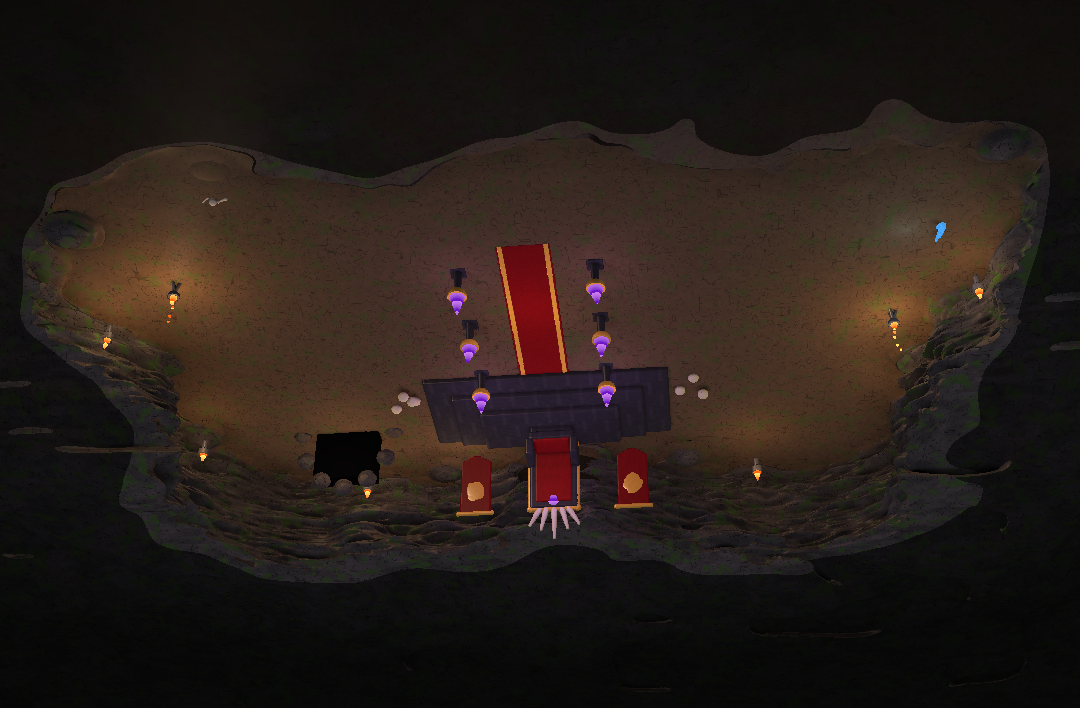
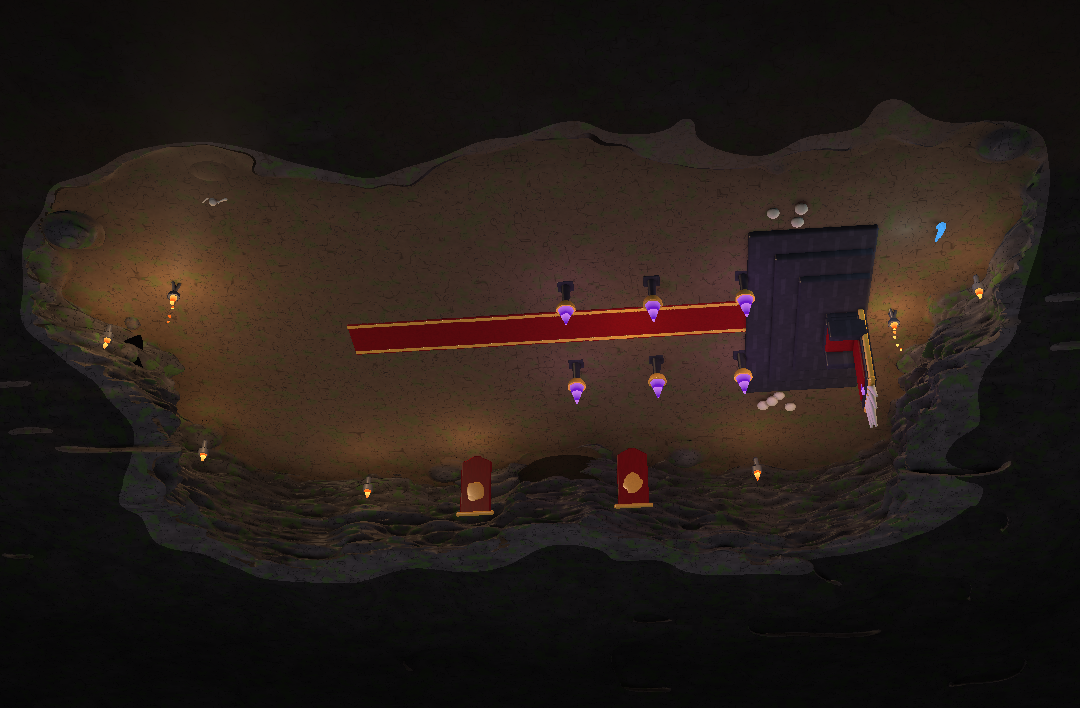
主の間：昼は背中、戦いは横向き。昼のキャラを大きく
Claude-Session: https://claude.ai/code/session_01MpJPWy321815AwYbXUCf2V

diff --git a/index.html b/index.html
@@ -7212,7 +7212,7 @@ document.addEventListener("click", ev => {
 { const _oc2 = openChest19; openChest19 = function (S, c) { if (c.kind !== "lvall") return _oc2(S, c); if (!S.mons.length) return _oc2(S, c);
   return { text: "👑 覚醒", sub: "Lv+3 する子を1体えらんでね", sp: null, feed: 1, awaken: true, evos: [] }; }; }
 
-const VER20 = "No.208（11/18 20:43）";
+const VER20 = "No.209（11/18 21:11）";
 // ================= proto20：ダンジョンを見る画面と、配置する画面を分ける =================
 // ・ダンジョン画面：洞窟を大きく。部屋をタップ → 部屋ボード（全画面）
 // ・🧭育成：育てる→稼ぐ／守るの流れで見る。卒業Lv・毎朝おまかせ
@@ -10603,7 +10603,7 @@ SPCOLX24.lord = [[0.74, 0.7, 0.84], [0.78, 0.12, 0.16]]; SPCOL24.lordk = SPCOLX2
 // 施設：今の3部屋の家具を1つずつ切り出し、広い洞窟の中で重ならない位置へずらして置く
 
 // 入口と出口の門（戦闘で勇者が出入りする）。奥の壁と右の壁
-const GATE25 = (x0, z0, side) => { const x = (+x0).toFixed(2), z = (+z0).toFixed(2), q = side ? `vec3(p.z-(${z}),p.y,-(p.x-(${x})))` : `vec3(p.x-(${x}),p.y,p.z-(${z}))`;
+const GATE25 = (x0, z0, side) => { const x = (+x0).toFixed(2), z = (+z0).toFixed(2), q = side === 2 ? `vec3(-(p.z-(${z})),p.y,p.x-(${x}))` : side ? `vec3(p.z-(${z}),p.y,-(p.x-(${x})))` : `vec3(p.x-(${x}),p.y,p.z-(${z}))`;
   return ` {vec3 q=${q};float vd=sRBox(q-vec3(0.0,1.35,-0.45),vec3(1.55,1.35,0.4),0.05);if(vd<r.x)r=vec2(vd,26.0);
   float fr=min(sTap(q,vec3(-1.75,0.0,0.0),vec3(-1.75,2.85,0.0),0.17,0.15),sTap(q,vec3(1.75,0.0,0.0),vec3(1.75,2.85,0.0),0.17,0.15));
   fr=min(fr,sTap(q,vec3(-2.05,2.85,0.0),vec3(2.05,2.85,0.0),0.19,0.19));fr=min(fr,sTap(q,vec3(-1.75,2.3,0.05),vec3(-1.1,2.85,0.05),0.07,0.07));fr=min(fr,sTap(q,vec3(1.75,2.3,0.05),vec3(1.1,2.85,0.05),0.07,0.07));
@@ -10638,24 +10638,40 @@ const WATCH25 = () => ` {vec3 q=p-vec3(11.0,0.0,3.6);float tb=sRBox(q-vec3(0.0,0
  {vec3 q=p-vec3(13.0,0.0,2.4);float tp=1e3;for(int i=0;i<3;i++){float a=float(i)*2.094+0.3;tp=min(tp,sTap(q,vec3(cos(a)*0.5,0.0,sin(a)*0.5),vec3(0.0,1.3,0.0),0.035,0.03));}if(tp<r.x)r=vec2(tp,12.0);
   float sg=sTap(q,vec3(-0.12,1.32,0.42),vec3(0.16,1.52,-0.5),0.1,0.065);if(sg<r.x)r=vec2(sg,18.0);float rg=sTap(q,vec3(-0.1,1.33,0.36),vec3(-0.08,1.345,0.3),0.115,0.115);if(rg<r.x)r=vec2(rg,22.0);}`;
 // 主の間：石の壇・玉座・赤いじゅうたん・紫の火の台・旗・どくろ
-const THRONE25 = () => ` {vec3 q=(p-vec3(0.0,0.0,-6.3))/1.4;vec2 rr=vec2(1e3,0.0);
-  float ds=sRBox(q-vec3(0.0,0.12,0.0),vec3(4.2,0.12,1.9),0.04);ds=min(ds,sRBox(q-vec3(0.0,0.34,-0.35),vec3(3.3,0.12,1.45),0.04));ds=min(ds,sRBox(q-vec3(0.0,0.56,-0.7),vec3(2.4,0.12,1.05),0.04));if(ds<rr.x)rr=vec2(ds,30.0);
-  vec3 t=q-vec3(0.0,0.68,-1.1);float th=sRBox(t-vec3(0.0,0.35,0.0),vec3(0.75,0.12,0.6),0.04);th=min(th,sRBox(t-vec3(0.0,1.45,-0.5),vec3(0.8,1.25,0.12),0.05));
+// 主の間の中身（元の向き：壇は奥 z=-6.3、玉座は手前 +z を向く）
+const DAIS25 = `  float ds=sRBox(q-vec3(0.0,0.12,0.0),vec3(4.2,0.12,1.9),0.04);ds=min(ds,sRBox(q-vec3(0.0,0.34,-0.35),vec3(3.3,0.12,1.45),0.04));ds=min(ds,sRBox(q-vec3(0.0,0.56,-0.7),vec3(2.4,0.12,1.05),0.04));if(ds<rr.x)rr=vec2(ds,30.0);`;
+const CHAIR25 = `  vec3 t=q-vec3(0.0,0.68,-1.1);float th=sRBox(t-vec3(0.0,0.35,0.0),vec3(0.75,0.12,0.6),0.04);th=min(th,sRBox(t-vec3(0.0,1.45,-0.5),vec3(0.8,1.25,0.12),0.05));
   th=min(th,sRBox(vec3(abs(t.x),t.y,t.z)-vec3(0.78,0.75,0.0),vec3(0.1,0.3,0.55),0.04));th=min(th,sRBox(t-vec3(0.0,0.12,0.0),vec3(0.7,0.12,0.55),0.03));if(th<rr.x)rr=vec2(th,30.0);
   float cu=sRBox(t-vec3(0.0,0.5,0.05),vec3(0.62,0.06,0.5),0.05);cu=min(cu,sRBox(t-vec3(0.0,1.45,-0.36),vec3(0.62,1.05,0.04),0.04));if(cu<rr.x)rr=vec2(cu,27.0);
   float gd=sTap(vec3(abs(t.x),t.y,t.z),vec3(0.82,0.08,-0.5),vec3(0.82,2.75,-0.5),0.06,0.06);gd=min(gd,sTap(t,vec3(-0.85,2.72,-0.5),vec3(0.85,2.72,-0.5),0.07,0.07));if(gd<rr.x)rr=vec2(gd,28.0);
   float sk=1e3;for(int i=0;i<5;i++){float a=(float(i)-2.0)*0.38;sk=min(sk,sTap(t,vec3(sin(a)*0.75,2.75,-0.5),vec3(sin(a)*1.25,2.75+cos(a)*(i==2?1.1:0.8),-0.55),0.08,0.01));}if(sk<rr.x)rr=vec2(sk,15.0);
-  float gm=sEll(t-vec3(0.0,2.45,-0.36),vec3(0.16,0.2,0.06));if(gm<rr.x)rr=vec2(gm,29.0);rr.x*=1.4;if(rr.x<r.x)r=rr;}
- {vec3 q=p-vec3(0.0,0.0,0.0);float cp=sRBox(q-vec3(0.0,0.05,1.2),vec3(1.15,0.04,4.8),0.01);if(cp<r.x)r=vec2(cp,27.0);
-  float cb=max(abs(abs(q.x)-1.0)-0.06,max(abs(q.z-1.2)-4.8,abs(q.y-0.09)-0.012));if(cb<r.x)r=vec2(cb,28.0);}
+  float gm=sEll(t-vec3(0.0,2.45,-0.36),vec3(0.16,0.2,0.06));if(gm<rr.x)rr=vec2(gm,29.0);`;
+const CARPET25 = (c, h) => ` {vec3 q=p;float cp=sRBox(q-vec3(0.0,0.05,${c}),vec3(1.15,0.04,${h}),0.01);if(cp<r.x)r=vec2(cp,27.0);
+  float cb=max(abs(abs(q.x)-1.0)-0.06,max(abs(q.z-(${c}))-(${h}),abs(q.y-0.09)-0.012));if(cb<r.x)r=vec2(cb,28.0);}`;
+const HALL25 = `
  {for(int i=0;i<6;i++){float sx=mod(float(i),2.0)<0.5?-3.0:3.0;float zz=i<2?-3.4:i<4?0.6:4.4;vec3 q=p-vec3(sx,0.0,zz);
   float st=sTap(q,vec3(0.0,0.0,0.0),vec3(0.0,1.25,0.0),0.16,0.09);st=min(st,sRBox(q-vec3(0.0,0.05,0.0),vec3(0.32,0.05,0.32),0.02));if(st<r.x)r=vec2(st,30.0);
   float bw=max(abs(length(q-vec3(0,1.42,0))-0.34)-0.04,q.y-1.4);if(bw<r.x)r=vec2(bw,28.0);
   float fl=sTap(q,vec3(0.0,1.42,0.0),vec3(0.06*sin(tm*9.0+float(i)),1.42+0.85+0.08*sin(tm*13.0+float(i)*2.0),0.0),0.3,0.0);if(fl<r.x)r=vec2(fl,29.0);}}
- {for(int i=0;i<2;i++){vec3 q=p-vec3(i==0?-3.9:3.9,0.0,-8.55);float bn=sRBox(q-vec3(0.0,3.2,0.0),vec3(0.7,1.6,0.04),0.02);bn=max(bn,-(q.y-1.6-0.6*abs(q.x)+0.05));if(bn<r.x)r=vec2(bn,27.0);
-  float rd=sTap(q,vec3(-0.85,4.85,0.05),vec3(0.85,4.85,0.05),0.05,0.05);float em=sEll(q-vec3(0.0,3.6,0.05),vec3(0.3,0.36,0.03));if(rd<r.x)r=vec2(rd,28.0);if(em<r.x)r=vec2(em,28.0);}}
  {for(int i=0;i<7;i++){float fi=float(i);vec3 c=vec3((i<4?-7.0:7.0)+sin(fi*2.3)*0.6,0.18+(mod(fi,3.0)<0.5?0.25:0.0),-5.2+cos(fi*1.7)*0.7);vec3 q=p-c;
   float sk=sEll(q,vec3(0.2,0.18,0.22));sk=max(sk,-sEll(q-vec3(0.08,0.02,0.16),vec3(0.06,0.06,0.08)));sk=max(sk,-sEll(q-vec3(-0.08,0.02,0.16),vec3(0.06,0.06,0.08)));if(sk<r.x)r=vec2(sk,20.0);}}`;
+const BANNER25 = ` {for(int i=0;i<2;i++){vec3 q=p-vec3(i==0?-3.9:3.9,0.0,-8.55);float bn=sRBox(q-vec3(0.0,3.2,0.0),vec3(0.7,1.6,0.04),0.02);bn=max(bn,-(q.y-1.6-0.6*abs(q.x)+0.05));if(bn<r.x)r=vec2(bn,27.0);
+  float rd=sTap(q,vec3(-0.85,4.85,0.05),vec3(0.85,4.85,0.05),0.05,0.05);float em=sEll(q-vec3(0.0,3.6,0.05),vec3(0.3,0.36,0.03));if(rd<r.x)r=vec2(rd,28.0);if(em<r.x)r=vec2(em,28.0);}}`;
+const THRONE_B25 = ` {vec3 q=(p-vec3(0.0,0.0,-6.3))/1.4;vec2 rr=vec2(1e3,0.0);
+${DAIS25}
+${CHAIR25}
+  rr.x*=1.4;if(rr.x<r.x)r=rr;}
+${CARPET25("5.5", "9.1")}
+${HALL25}`;
+const THRONE_D25 = ` {vec3 q=(p-vec3(0.0,0.0,-6.3))/1.4;vec2 rr=vec2(1e3,0.0);
+${DAIS25}
+  rr.x*=1.4;if(rr.x<r.x)r=rr;}
+${CARPET25("2.4", "6.0")}
+${HALL25}`;
+const THRONE25 = mode => ` {vec3 P1=p;p=${mode === "D" ? "vec3(-p.x,p.y,-p.z)" : "vec3(p.z,p.y,-(p.x-6.0))"};
+${mode === "D" ? THRONE_D25 : THRONE_B25}
+ p=P1;}
+${BANNER25}`;
 const HAI25 = (() => {
   const L = r => ROOMS24[r].props.split("\n");
   const T = L("train"), M = L("mine"), S = L("sleep");
@@ -10680,9 +10696,11 @@ const HAI25 = (() => {
     { id: "ladder", name: "見張りのはしごと足場", g: "none", txt: LADDER25(13.4, 5.0, 1), light: "LIGHT(15.4,5.2,5.0,0.75,0.85,1.0,3.4)", foot: [[13.6, 5.0, 1.4], [15.6, 5.0, 1.8]] },
     { id: "watch2", name: "地図の机とたる・遠めがね", g: "none", txt: WATCH25(), light: "LIGHT(11.0,1.4,3.2,1.0,0.7,0.35,2.6)", foot: [[11.0, 3.6, 1.4], [9.7, 4.6, 0.5], [10.9, 7.3, 1.0], [13.0, 2.4, 0.7]] },
     { id: "barr", name: "とげのバリケード", g: "none", txt: BARR25(-4.4, -5.0) + BARR25(4.4, -5.0) + BARR25(-10.6, -3.4) + BARR25(10.6, -3.4), foot: [-7.2, -4.4, -1.6, 1.6, 4.4, 7.2, -13.4, -10.6, -7.8, 7.8, 10.6, 13.4].map((x, k) => [x, k < 6 ? -5.0 : -3.4, 1.2]) },
-    { id: "throne", name: "玉座と壇・じゅうたん", g: "none", txt: THRONE25(), light: "LIGHT(-3.0,2.1,-3.4,0.7,0.3,1.0,2.6) LIGHT(3.0,2.1,-3.4,0.7,0.3,1.0,2.6) LIGHT(-3.0,2.1,4.4,0.7,0.3,1.0,2.2) LIGHT(3.0,2.1,4.4,0.7,0.3,1.0,2.2) LIGHT(0.0,4.2,-6.0,0.75,0.35,1.0,3.0) LIGHT(0.0,2.0,1.5,1.0,0.55,0.3,2.0)",
-      foot: [[0, -6.3, 5.8], [-3, -3.4, 0.6], [3, -3.4, 0.6], [-3, 0.6, 0.6], [3, 0.6, 0.6], [-3, 4.4, 0.6], [3, 4.4, 0.6], [-7.0, -5.2, 0.9], [7.0, -5.2, 0.9]] },
-    { id: "gateL", name: "主の間の入口（左奥）", g: "none", txt: GATE25(-10.5, -7.9, 0), light: "LIGHT(-10.5,2.4,-6.9,1.0,0.6,0.3,2.0)", foot: [[-10.5, -7.7, 1.8]] },
+    { id: "throneB", name: "玉座の間（戦い・横向き）", g: "none", txt: THRONE25("B"), light: "LIGHT(9.4,2.1,-3.0,0.7,0.3,1.0,2.6) LIGHT(9.4,2.1,3.0,0.7,0.3,1.0,2.6) LIGHT(1.6,2.1,-3.0,0.7,0.3,1.0,2.2) LIGHT(1.6,2.1,3.0,0.7,0.3,1.0,2.2) LIGHT(12.0,4.2,0.0,0.75,0.35,1.0,3.0) LIGHT(4.5,2.0,0.0,1.0,0.55,0.3,2.0)",
+      foot: [[12.3, 0, 5.8], [9.4, -3, 0.6], [9.4, 3, 0.6], [5.4, -3, 0.6], [5.4, 3, 0.6], [1.6, -3, 0.6], [1.6, 3, 0.6], [11.2, -7.0, 0.9], [11.2, 7.0, 0.9]] },
+    { id: "throneD", name: "玉座の間（昼・手前の壇）", g: "none", txt: THRONE25("D"), light: "LIGHT(-3.0,2.1,3.4,0.7,0.3,1.0,2.6) LIGHT(3.0,2.1,3.4,0.7,0.3,1.0,2.6) LIGHT(-3.0,2.1,-0.6,0.7,0.3,1.0,2.2) LIGHT(3.0,2.1,-0.6,0.7,0.3,1.0,2.2) LIGHT(-3.0,2.1,-4.4,0.7,0.3,1.0,2.0) LIGHT(3.0,2.1,-4.4,0.7,0.3,1.0,2.0) LIGHT(0.0,3.0,6.0,0.75,0.35,1.0,2.6)",
+      foot: [[0, 6.3, 5.8]] },
+    { id: "gateW", name: "主の間の入口（左の壁）", g: "none", txt: GATE25(-18.2, 0, 2), light: "LIGHT(-16.8,2.4,0.0,1.0,0.6,0.3,2.2)", foot: [[-17.6, 0, 1.8]] },
     { id: "dummy", name: "わら人形", shell: 1, foot: [[-2.05 * 6.34, 0.55 * 5.76, 0.8]] },
     { id: "rack", name: "武器立て", shell: 1, foot: [[-1.35 * 6.34, -1.65 * 5.76, 0.8]] },
     { id: "torch", name: "壁の松明", shell: 1, foot: [] },
@@ -10817,7 +10835,8 @@ const ROOMSET25 = {
   train: ["stake", "rocks", "ring", "pit1", "dummy", "rack", "torch", "stal", "gate", "gate2"],
   mine: ["ore", "rail", "pebble", "pick", "lamp", "torch", "stal", "gate", "gate2"],
   bed: ["bed", "pot", "torch", "stal", "gate", "gate2"],
-  lord: ["throne", "gateL", "torch"],
+  lord: ["throneB", "gateW", "torch"],
+  lordday: ["throneD", "gate", "torch"],
   nest: ["nest", "crate", "torch", "stal", "gate", "gate2"],
   watch: ["ladder", "watch2", "crate", "torch", "stal", "gate", "gate2"],
   entry: ["barr", "crate", "lamp", "rack", "torch", "stal", "gate", "gate2"],
@@ -10831,7 +10850,7 @@ function roomKind25(i){ const R = S.path[i] || {}; if (i === lordIdx(S)) return 
   return F.includes("train") ? "train" : F.includes("mine") ? "mine" : F.includes("bed") ? "bed" : R.fac === "mine" ? "mine" : R.fac === "bed" ? "bed" : R.fac === "train" ? "train" : F.includes("nest") || R.fac === "nest" ? "nest" : F.includes("watch") || R.fac === "watch" ? "watch" : F.includes("gate") || R.fac === "gate" ? "entry" : "plain"; }
 // 配った洞窟の絵（bg25/部屋の種類_c.png・_d.png）があれば、それを読み込む
 function setRoom25(i){ const C = B3.C; C.setRoom(B3.roomKey); const k = roomKind25(i); if (!BGSHIP25[k]) return; C.putBgImages(`bg25/${k}_c.png?v=${BGSHIP25[k]}`, `bg25/${k}_d.png?v=${BGSHIP25[k]}`, C.st.bgKey); }
-const BGSHIP25 = { train: "fd282ce3", mine: "f6c4e409", bed: "3f1c9fef", lord: "4ab9625f", plain: "43787f10", nest: "92cc858e", watch: "a7d8de73", entry: "a8a68ce5", train_mine: "52dcb95c", train_bed: "8fba5ad9", train_nest: "d84b8dc8", train_watch: "42cc71e7", mine_bed: "680cf510", mine_nest: "11aafbdb", mine_watch: "22b99272", bed_nest: "3d83bc11", bed_watch: "994ec677", nest_watch: "4e4b4c24" };
+const BGSHIP25 = { train: "fd282ce3", mine: "f6c4e409", bed: "3f1c9fef", lord: "747617d1", plain: "43787f10", nest: "92cc858e", watch: "a7d8de73", entry: "a8a68ce5", train_mine: "52dcb95c", train_bed: "8fba5ad9", train_nest: "d84b8dc8", train_watch: "42cc71e7", mine_bed: "680cf510", mine_nest: "11aafbdb", mine_watch: "22b99272", bed_nest: "3d83bc11", bed_watch: "994ec677", nest_watch: "4e4b4c24", lordday: "41ce104d" };
 function roomKey25(i){ const on = {}; ROOMSET25[roomKind25(i)].forEach(k => on[k] = true); return HAI25.room(on); }
 // ---- 3Dのキャラの種類 ----
 const heroSp25 = h => (typeof heroId === "function" ? String(heroId(h)).replace(/\d+$/, "") : h.job) || "warrior";
@@ -10841,7 +10860,7 @@ function kinds25(){ const K = {}, add = (sp, evo) => { const key = sp + ":" + ev
   return Object.values(K); }
 // ---- 部屋の中の立ち位置 ----
 const TUN25 = [0, -9.9], EXIT25 = [18.6, 0];
-const tun25 = () => (B3 && B3.room === lordIdx(S) ? [-10.5, -8.4] : TUN25);
+const tun25 = () => (B3 && B3.room === lordIdx(S) ? [-17.4, 0] : TUN25);
 function homeSpots25(i){ const ms = N.mons.filter(m => m.home === i); const on = {}; ROOMSET25[roomKind25(i)].forEach(k => on[k] = true);
   const cast = HAI25.place(on, ms.map(m => ({ sp: m.sp, evo: (m.ref && m.ref.evos) || 0, n: 1, act: "idle", id: m.ref.id })), 7 + i * 13);
   const out = {}; const left = ms.slice().sort((a, b) => HAI25.footR({ sp: b.sp, evo: (b.ref && b.ref.evos) || 0 }) - HAI25.footR({ sp: a.sp, evo: (a.ref && a.ref.evos) || 0 }));
@@ -10861,7 +10880,7 @@ function targets25(i){ const L = lordIdx(S), sp = B3.spots[i] || (B3.spots[i] = 
   const want = {};
   // 魔物
   N.mons.forEach(m => { const id = "m" + m.ref.id; if (m.pos !== i && !(B3.A[id] && B3.A[id].dying)) return; const s = sp[id] || [((m.ref.id * 37) % 11 - 5) * 2.2, 1 + ((m.ref.id * 13) % 5)]; want[id] = { x: s[0], z: s[1], key: m.sp + ":" + ((m.ref && m.ref.evos) || 0), hp: m.hp / m.max, down: m.down, name: m.ref.nick || "" }; });
-  if (i === L) want.lord = { x: 0, z: -3.0, key: "lord:0", hp: N.lord.hp / N.lord.max, down: N.lord.down, name: "主" };
+  if (i === L) want.lord = { x: 9.0, z: 0, key: "lord:0", hp: N.lord.hp / N.lord.max, down: N.lord.down, name: "主" };
   // 勇者
   const foes = Object.entries(want).filter(([k, v]) => !v.down);
   let n = 0;
@@ -10870,7 +10889,7 @@ function targets25(i){ const L = lordIdx(S), sp = B3.spots[i] || (B3.spots[i] = 
     if (h.st === "dead" && !(B3.A[id] && B3.A[id].dying)) { if (h.pos !== i) return; }
     if (!(here || comeIn || goOut || (B3.A[id] && B3.A[id].dying)) || h.st === "escaped") return;
     let x, z, enter = false, leave = false;
-    if (comeIn) { const tot = Math.max(1, (typeof corr10 === "function" ? corr10(S, i) : 2)), pr = 1 - Math.max(0, h.walk) / tot; x = tun25()[0] + (h.id % 3 - 1) * 0.9 * pr; z = tun25()[1] + pr * 3.2; enter = true; }
+    if (comeIn) { const tot = Math.max(1, (typeof corr10 === "function" ? corr10(S, i) : 2)), pr = 1 - Math.max(0, h.walk) / tot; const lr = i === lordIdx(S); x = tun25()[0] + (lr ? pr * 3.2 : (h.id % 3 - 1) * 0.9 * pr); z = tun25()[1] + (lr ? (h.id % 3 - 1) * 0.9 * pr : pr * 3.2); enter = true; }
     else if (goOut) { x = EXIT25[0]; z = EXIT25[1] + (h.id % 3 - 1) * 0.8; leave = true; }
     else { // 戦う相手の近くへ
       const tg = B3.tgt[id] && want[B3.tgt[id]] && !want[B3.tgt[id]].down ? want[B3.tgt[id]] : foes.length ? foes[(h.id) % foes.length][1] : null;
@@ -11037,6 +11056,10 @@ function dspr25(sp, evo){ const k = sp + ":" + evo; if (D3.spr[k] !== undefined)
   const im = new Image(); const o = { im, ok: false, ppu: (PPU25[k] || PPU25[sp + ":0"] || [36])[0], bip: dbip25(sp), foot: 122 };
   im.onload = () => { try { const c = document.createElement("canvas"); c.width = c.height = 128; const g = c.getContext("2d"); g.drawImage(im, 0, 0); const d = g.getImageData(0, 0, 128, 128).data; let b = 0; for (let y = 0; y < 128; y++) for (let x = 0; x < 128; x++) if (d[(y * 128 + x) * 4 + 3] > 128) b = y; o.foot = b; } catch (e) {} o.ok = true; };
   im.src = L[Math.min(L.length - 1, evo)] || L[0]; return D3.spr[k] = o; }
+// 主の後ろ姿（昼の主の間で、奥の入口をにらんで立つ）
+function dback25(evo){ const k = "back:" + evo; if (D3.spr[k] !== undefined) return D3.spr[k]; const im = new Image(), o = D3.spr[k] = { im, ok: false, ppu: (PPU25["lord:" + evo] || [17])[0], bip: true, foot: 122 };
+  im.onload = () => { try { const c = document.createElement("canvas"); c.width = c.height = 128; const g = c.getContext("2d"); g.drawImage(im, 0, 0); const d = g.getImageData(0, 0, 128, 128).data; let b = 0; for (let y = 0; y < 128; y++) for (let x = 0; x < 128; x++) if (d[(y * 128 + x) * 4 + 3] > 128) b = y; o.foot = b; } catch (e) {} o.ok = true; };
+  im.src = `bg25/lordback_${Math.min(2, evo || 0)}.png?v=1`; return o; }
 // ---- 部屋の中の子：立ち位置と動き ----
 function droom25(i){ const kind = roomKind25(i), on = {}; ROOMSET25[kind].forEach(k => on[k] = true);
   const res = S.path[i].kind === "lord" ? [] : residents5(S, i);
@@ -11049,21 +11072,22 @@ function droom25(i){ const kind = roomKind25(i), on = {}; ROOMSET25[kind].forEac
   const order = all.map((m, k) => ({ m, a: list[k] })).sort((a, b) => HAI25.footR({ sp: b.m.sp, evo: b.m.evos || 0 }) - HAI25.footR({ sp: a.m.sp, evo: a.m.evos || 0 }));
   const fit = (x, z, r) => { for (let n = 0; n < 30; n++) { const p = dproj25(x, 0, z), pw = r * p[2]; if (p[0] - pw > 0.1 && p[0] + pw < 0.9 && p[1] > 0.3 && p[1] < 0.84) break; x *= 0.92; z = z * 0.9 + 0.3; } return [x, z]; };
   const acts = []; cast.forEach((c, k) => { const o = order[k]; if (!o) return; const [fx0, fz0] = fit(c.o[0], c.o[2], HAI25.footR({ sp: o.m.sp, evo: o.m.evos || 0 })); c.o[0] = fx0; c.o[2] = fz0; acts.push({ m: o.m, sp: o.m.sp, evo: o.m.evos || 0, x: c.o[0], z: c.o[2], hx: c.o[0], hz: c.o[2], tx: c.o[0], tz: c.o[2], mode: c.mode, face: Math.random() < 0.5 ? 1 : -1, next: 0, ph: Math.random() * 3 }); });
-  if (S.path[i].kind === "lord") acts.push({ lord: true, sp: "lord", evo: typeof lordTier === "function" ? lordTier() : 0, x: 0, z: -3.0, hx: 0, hz: -3.0, tx: 0, tz: -3.0, mode: "idle", face: 1, next: 1e12, ph: 0 });
+  if (S.path[i].kind === "lord") acts.push({ lord: true, back: true, sp: "lord", evo: typeof lordTier === "function" ? lordTier() : 0, x: 0, y: 0.95, z: 6.6, hx: 0, hz: 6.6, tx: 0, tz: 6.6, mode: "idle", face: 1, next: 1e12, ph: 0 });
   return D3.act[i] = { sig, kind, acts }; }
 // ---- 1部屋を描く ----
+const DAYK25 = 1.5;   // 昼の画面だけ、キャラを大きめに描く（遠くて見えにくいので）
 const DFR25 = { idle: [0, 4, 1.6], walk: [15, 2, 0.5], hop: [11, 4, 0.6], atk: [5, 4, 0.55], sleep: [4, 1, 1] };
 function dcard25(card, i, now, dt){
   const cv = card.querySelector("canvas"), r = cv.getBoundingClientRect(), dpr = Math.min(2, window.devicePixelRatio || 1), W = Math.round(r.width * dpr), H = Math.round(r.height * dpr);
   if (!W) return; if (cv.width !== W || cv.height !== H) { cv.width = W; cv.height = H; }
   const g = cv.getContext("2d"); g.imageSmoothingEnabled = false;
-  const R = droom25(i), bg = dimg25(`bg25/${R.kind}_full.png?v=${BGSHIP25[R.kind] || 5}`); if (bg.ok) g.drawImage(bg, 0, 0, W, H); else { g.fillStyle = "#1a1412"; g.fillRect(0, 0, W, H); }
+  const R = droom25(i), bg = dimg25(`bg25/${R.kind === "lord" ? "lordday" : R.kind}_full.png?v=${BGSHIP25[R.kind === "lord" ? "lordday" : R.kind] || 5}`); if (bg.ok) g.drawImage(bg, 0, 0, W, H); else { g.fillStyle = "#1a1412"; g.fillRect(0, 0, W, H); }
   { const E = D3.edge && D3.edge.h === H ? D3.edge : (D3.edge = { h: H, t: (() => { const q = g.createLinearGradient(0, 0, 0, H); q.addColorStop(0, "rgba(16,14,12,1)"); q.addColorStop(0.07, "rgba(16,14,12,0)"); q.addColorStop(0.9, "rgba(16,14,12,0)"); q.addColorStop(1, "rgba(16,14,12,1)"); return q; })() }); g.fillStyle = E.t; g.fillRect(0, 0, W, H); }
   // 動き：ときどき近くへ歩く（働いている子・寝ている子はその場）
   R.acts.forEach(a => { if (a.mode === "idle" && !a.lord && now > a.next) { a.next = now + 2.5 + Math.random() * 4; const ang = Math.random() * 6.28, d = Math.random() * 2.2; a.tx = a.hx + Math.cos(ang) * d; a.tz = a.hz + Math.sin(ang) * d * 0.6; }
     const dx = a.tx - a.x, dz = a.tz - a.z, L = Math.hypot(dx, dz); a.walking = L > 0.08; if (a.walking) { const s = Math.min(L, 1.6 * dt); a.x += dx / L * s; a.z += dz / L * s; if (Math.abs(dx) > 0.05) a.face = dx > 0 ? 1 : -1; } });
-  R.acts.slice().sort((a, b) => a.z - b.z).forEach(a => { const o = dspr25(a.sp, a.evo); if (!o || !o.ok) return;
-    const p = dproj25(a.x, 0, a.z), fx = p[0] * W, fy = p[1] * H, k = p[2] * W / o.ppu, s = 128 * k;
+  R.acts.slice().sort((a, b) => a.z - b.z).forEach(a => { const o = a.back ? dback25(a.evo) : dspr25(a.sp, a.evo); if (!o || !o.ok) return;
+    const p = dproj25(a.x, a.y || 0, a.z), fx = p[0] * W, fy = p[1] * H, k = p[2] * W / o.ppu * DAYK25, s = 128 * k;
     const st = a.mode === "sleep" ? "sleep" : a.walking ? (o.bip ? "walk" : "hop") : (a.mode === "mine" || a.mode === "train" || a.mode === "slash" || a.mode === "lift") && o.bip ? "atk" : "idle";
     const F = DFR25[st], fr = F[0] + Math.floor(((now + a.ph) / F[2] * F[1]) % F[1]);
     const lum = dlum25(bg, p[0], p[1] - 0.04), br = Math.max(a.lord ? 0.8 : 0.42, Math.min(1.05, 0.3 + lum * 2.2));
@@ -11083,7 +11107,7 @@ D3.pops = {};
 function dpops25(g, i, R, now, dpr, W, H){ const L = D3.pops[i]; if (!L || !L.length) return;
   D3.pops[i] = L.filter(p => now - p.t0 < p.ms);
   // 先に置き場所を決める：吹き出しを先に、ほかの文字は重ならないところまで上へ（多すぎたら小さい文字は出さない）
-  const gp = R.kind === "lord" ? [-10.5, -7.9] : [0, -9.4], pg = dproj25(gp[0], 2.75, gp[1]);
+  const gp = [0, -9.4], pg = dproj25(gp[0], 2.75, gp[1]);
   const placed = [{ x0: 0, y0: 0, x1: 78 * dpr, y1: 30 * dpr }, { x0: pg[0] * W - 32 * dpr, y0: 0, x1: pg[0] * W + 32 * dpr, y1: pg[1] * H + 4 * dpr }], items = D3.pops[i].slice().sort((a, b) => (b.talk ? 1 : 0) - (a.talk ? 1 : 0) || a.t0 - b.t0);
   items.forEach(p => { if (p.hide) return; const q = (now - p.t0) / p.ms; p.al = q < 0.12 ? q / 0.12 : q > 0.72 ? (1 - q) / 0.28 : 1;
     let x, y; if (p.a && p.a.sx != null && R.acts.includes(p.a)) { x = p.a.sx; y = p.a.sy - 10 * dpr; } else { x = p.u * W; y = p.v * H; }
@@ -11117,7 +11141,7 @@ function dtun25(cv, seed, now){ const Wc = cv.parentNode.clientWidth || 370, Hc 
   const g = cv.getContext("2d"), W = cv.width, H = cv.height; let s = seed * 9301 + 49297; const R = () => (s = (s * 9301 + 49297) % 233280) / 233280;
   const B = D3.tunB || (D3.tunB = {}); let base = B[seed];
   if (!base) { base = B[seed] = document.createElement("canvas"); base.width = W; base.height = H; const b = base.getContext("2d"), P = (x, y, c) => { b.fillStyle = c; b.fillRect(x, y, 1, 1); };
-    const gp = (() => { try { return roomKind25(seed) === "lord" ? [-10.5, -7.9] : [0, -9.4]; } catch (e) { return [0, -9.4]; } })(), pg = dproj25(gp[0], 2.75, gp[1]);
+    const gp = (() => { try { return [0, -9.4]; } catch (e) { return [0, -9.4]; } })(), pg = dproj25(gp[0], 2.75, gp[1]);
     const yT = 4, yG = Math.round(H - 40 - 0.11 * Wc + pg[1] * Wc / 2) + 1, xG = pg[0] * W, xT = xG;   // 上の部屋の床の穴／下の部屋の門の上
     const tt = y => Math.max(0, Math.min(1, (y - yT) / (yG - yT)));
     const cx = y => xT + (xG - xT) * tt(y) + Math.sin(tt(y) * Math.PI) * Math.sin(seed * 1.7) * 7, hw = y => 9.5 + Math.sin(y * 0.35 + seed) * 1.0;
